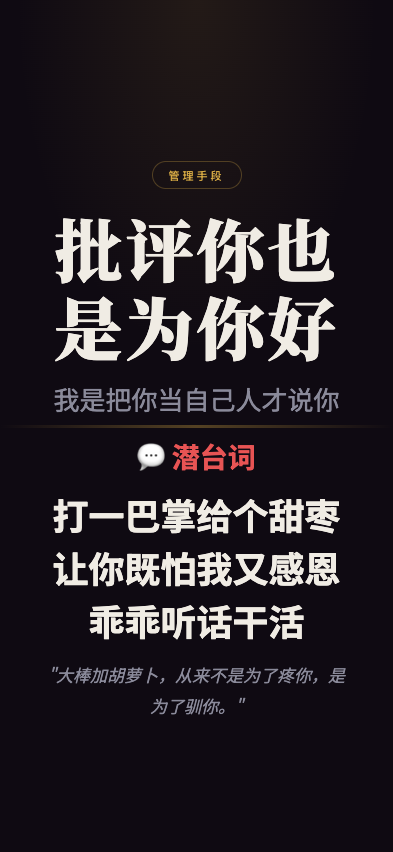
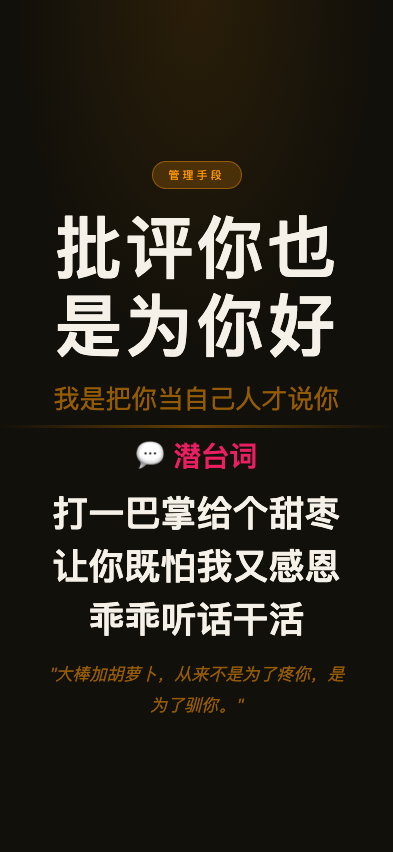
feat: 职场生存法则 screenshot - tigongyoujingzhenglidexinzi

Changed region(s): [[0.1221, 0.1831, 0.8855, 0.5493], [0.1221, 0.5798, 0.8855, 0.8545], [0.8244, 0.7629, 0.8855, 0.8239]]

diff --git a/wuliao-tools/tools/biz-speak/scenes/pipingniyeshiweinihao.html b/wuliao-tools/tools/biz-speak/scenes/pipingniyeshiweinihao.html
@@ -7,11 +7,14 @@
 <link href="https://fonts.googleapis.com/css2?family=Noto+Serif+SC:wght@400;700;900&family=Noto+Sans+SC:wght@300;400;700&display=swap" rel="stylesheet">
 <style>
   :root {
-    --bg: #0f0a12;
-    --text: #f0ece4;
-    --text-dim: #8a8a9a;
-    --gold: #d4a843;
-    --red: #e85454;
+    --bg: #12100a;
+    --text: #f5f0e8;
+    --text-dim: rgba(255,152,0,0.55);
+    --gold: #ff9800;
+    --red: #e91e63;
+    --tag-bg: rgba(255,152,0,0.2);
+    --tag-border: rgba(255,152,0,0.4);
+    --tag-text: #ff9800;
   }
   * { margin:0; padding:0; box-sizing:border-box; }
   html, body { width:100%; height:100%; overflow:hidden; }
@@ -24,11 +27,11 @@
   }
   body::before {
     content:''; position:absolute; top:0; left:0; right:0; height:45%;
-    background:radial-gradient(ellipse at 50% 0%, rgba(212,168,67,0.1) 0%, transparent 65%);
+    background:radial-gradient(ellipse at 50% 0%, rgba(255,152,0,0.1) 0%, transparent 65%);
     pointer-events:none; z-index:0;
   }
   .top { flex:1; display:flex; flex-direction:column; align-items:center; justify-content:flex-end; padding:4px 28px 8px; position:relative; z-index:1; }
-  .tag { font-size:11px; letter-spacing:3px; color:var(--gold); border:1px solid rgba(212,168,67,0.3); padding:5px 16px; border-radius:50px; margin-bottom:20px; }
+  .tag { font-size:11px; letter-spacing:3px; color:var(--tag-text); background:var(--tag-bg); border:1px solid var(--tag-border); padding:5px 16px; border-radius:50px; margin-bottom:20px; }
   .main-title { font-family:'Noto Serif SC'; font-size:68px; font-weight:900; text-align:center; line-height:1.15; letter-spacing:3px; min-width:0; overflow-wrap:break-word; max-width:92%; }
   .sub-title { font-size:26px; color:var(--text-dim); text-align:center; margin-top:14px; }
   .divider { width:100%; height:3px; background:linear-gradient(90deg,transparent,var(--gold),transparent); opacity:0.35; flex-shrink:0; position:relative; z-index:1; }
@@ -49,9 +52,7 @@
   <div class="bottom">
     <div class="truth-label">💬 潜台词</div>
     <div class="truth-lines">
-      <div class="truth-line">打一巴掌给个甜枣</div>
-      <div class="truth-line">让你既怕我又感恩</div>
-      <div class="truth-line">乖乖听话干活</div>
+      <div class="truth-line">打一巴掌给个甜枣</div><div class="truth-line">让你既怕我又感恩</div><div class="truth-line">乖乖听话干活</div>
     </div>
     <div class="quote">"大棒加胡萝卜，从来不是为了疼你，是为了驯你。"</div>
   </div>
